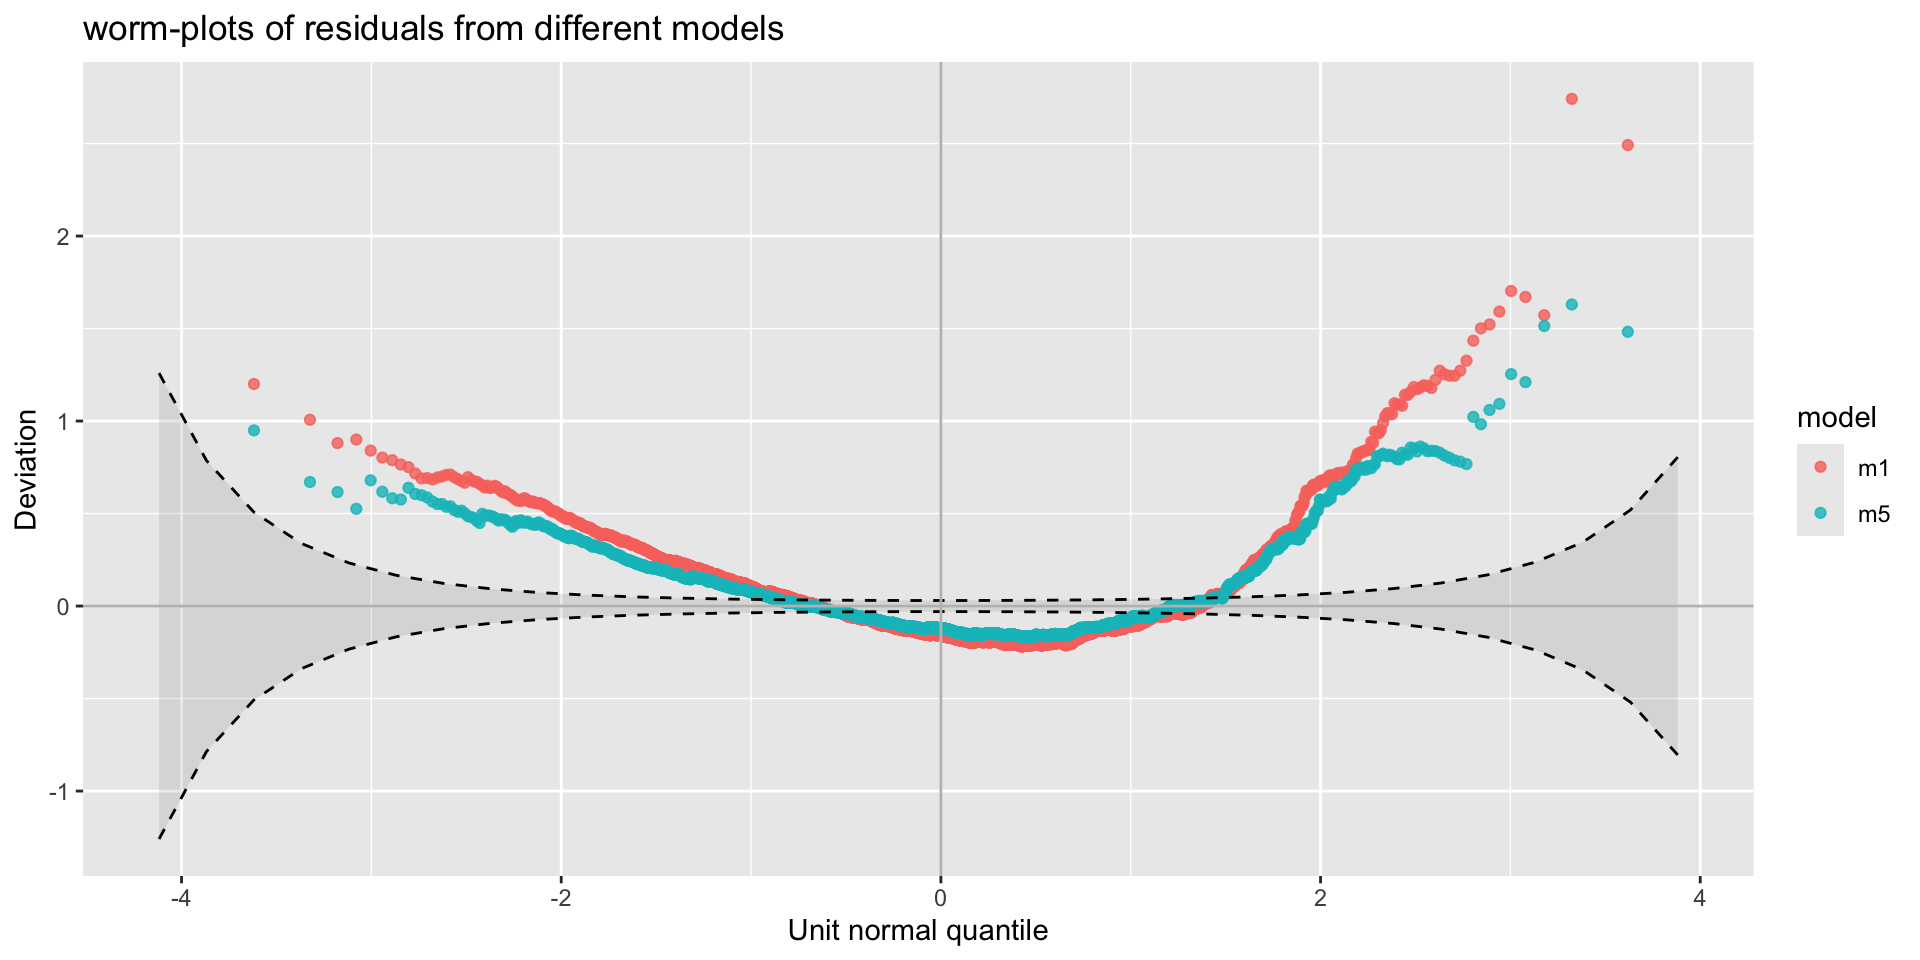
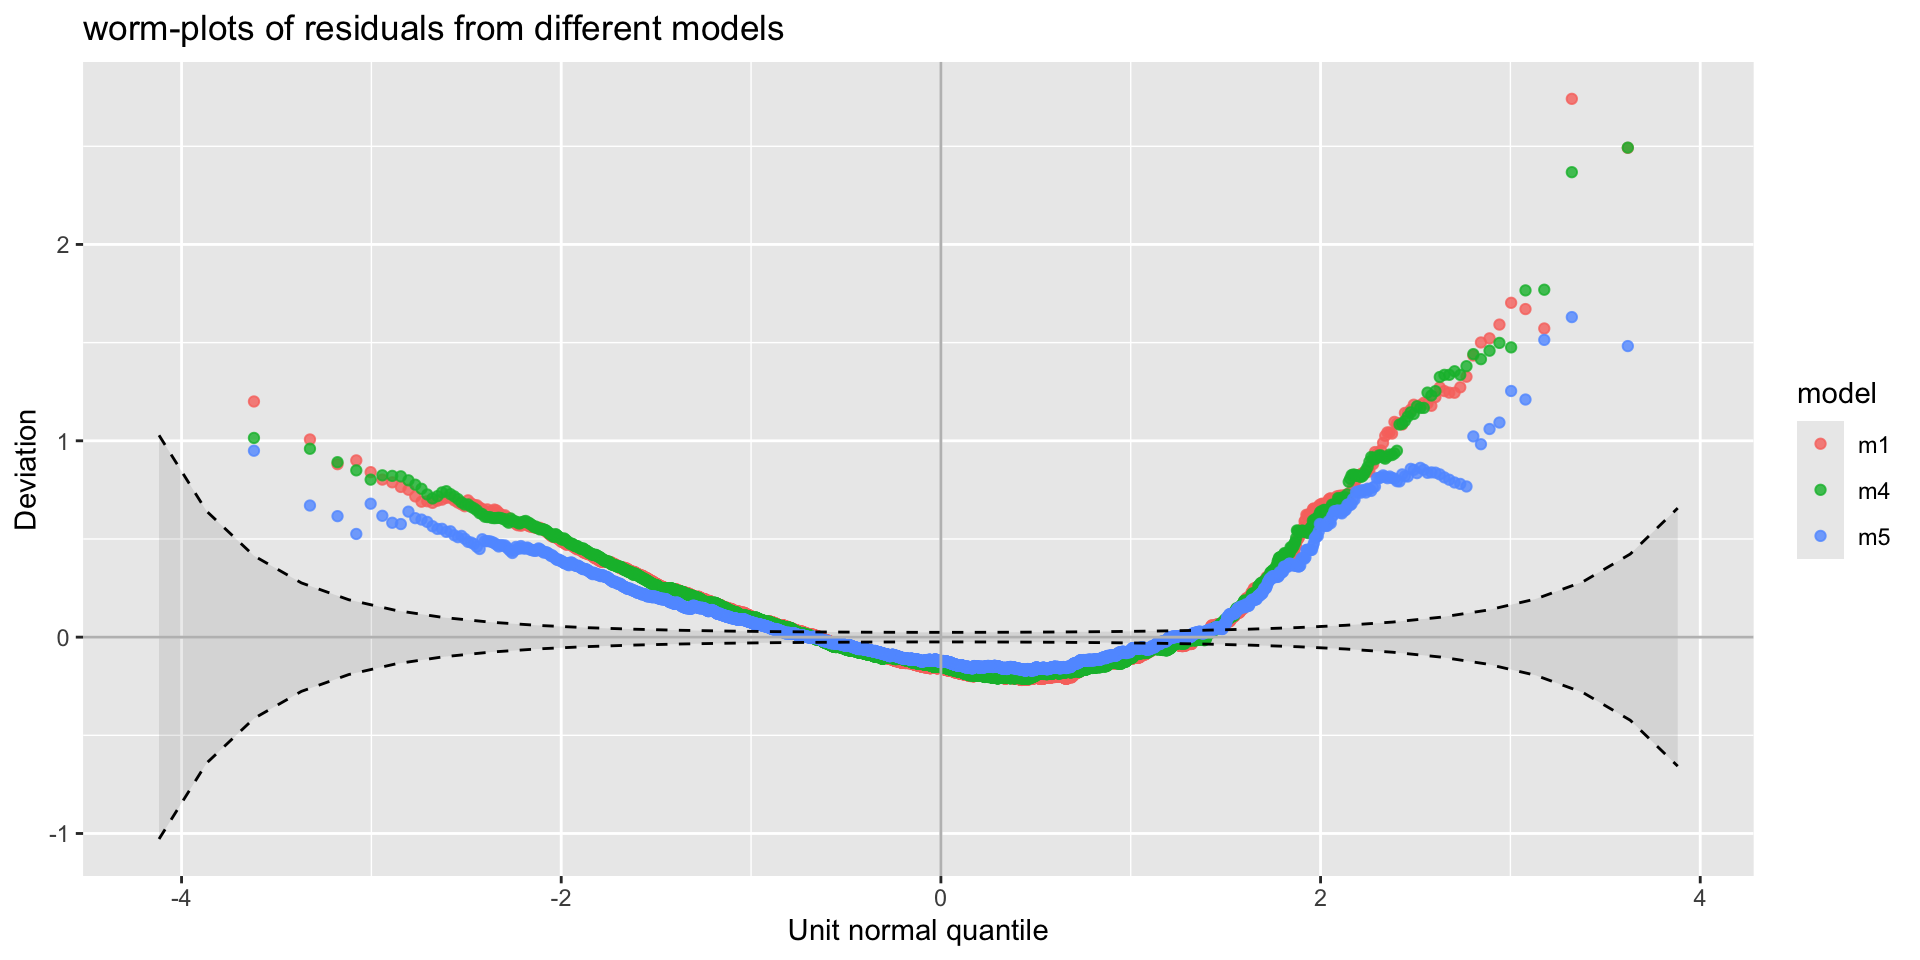
why gamlss all documents

diff --git a/docs/Why_GAMLSS.html b/docs/Why_GAMLSS.html
@@ -561,7 +561,7 @@ g(\mu_i) &amp;=&amp; b_0 + b_1 x_{1i}  +  b_2  x_{2i}, \ldots,  b_p x_{pi}
 </div>
 
 <aside><div>
-<p>QQ-plot</p>
+<p>QQ-plot for linear <code>m1</code>, regression tree <code>m4</code> and gamma <code>m5</code> models</p>
 </div></aside></section>
 <section id="example-diagnostics-2" class="slide level2">
 <h2>Example: diagnostics 2</h2>
@@ -576,7 +576,7 @@ g(\mu_i) &amp;=&amp; b_0 + b_1 x_{1i}  +  b_2  x_{2i}, \ldots,  b_p x_{pi}
 </div>
 
 <aside><div>
-<p>Worm-plot</p>
+<p>Worm-plot for linear <code>m1</code>, regression tree <code>m4</code> and gamma <code>m5</code> models</p>
 </div></aside></section>
 <section id="example-diagnostics-3" class="slide level2">
 <h2>Example: diagnostics 3</h2>
@@ -591,7 +591,7 @@ g(\mu_i) &amp;=&amp; b_0 + b_1 x_{1i}  +  b_2  x_{2i}, \ldots,  b_p x_{pi}
 </div>
 
 <aside><div>
-<p>Bucket-plot</p>
+<p>Bucket-plot for linear <code>m1</code>, regression tree <code>m4</code> and gamma <code>m5</code> models</p>
 </div></aside></section>
 <section id="example-conclusion" class="slide level2">
 <h2>Example: conclusion</h2>
@@ -783,7 +783,7 @@ Figure&nbsp;1: Centile-plot of the fitted <code>m6</code> model
 <li><p>Distributional assumptions often needed for the response to be fitted properly</p></li>
 <li><p>In the BMI example above we needed to model all the parameters of the distribution as function of the explanatory variable <code>age</code>.</p></li>
 <li><p>Those parameters were the <code>location</code> parameter <span class="math inline">\(\mu\)</span>, the <code>scale</code> parameter, <span class="math inline">\(\sigma\)</span>, the <code>skewness</code> parameter, <span class="math inline">\(\nu\)</span>, and the <code>kurtotic</code> parameter <span class="math inline">\(\tau\)</span></p></li>
-<li><p>Machine Learning methods are useful (especially for modelling interactions between variables) but they are not suitable if the interest do non lie in the mean.</p></li>
+<li><p>Machine Learning methods are useful (especially for modelling interactions between variables) but they are not suitable if the interest do <code>not</code> lie in the mean of the distribution.</p></li>
 </ul>
 <!-- -   `quantile regression` could be used in certain circumstances  but  it is more difficult to check its adequancy -->
 <!-- ::: callout-tip -->
